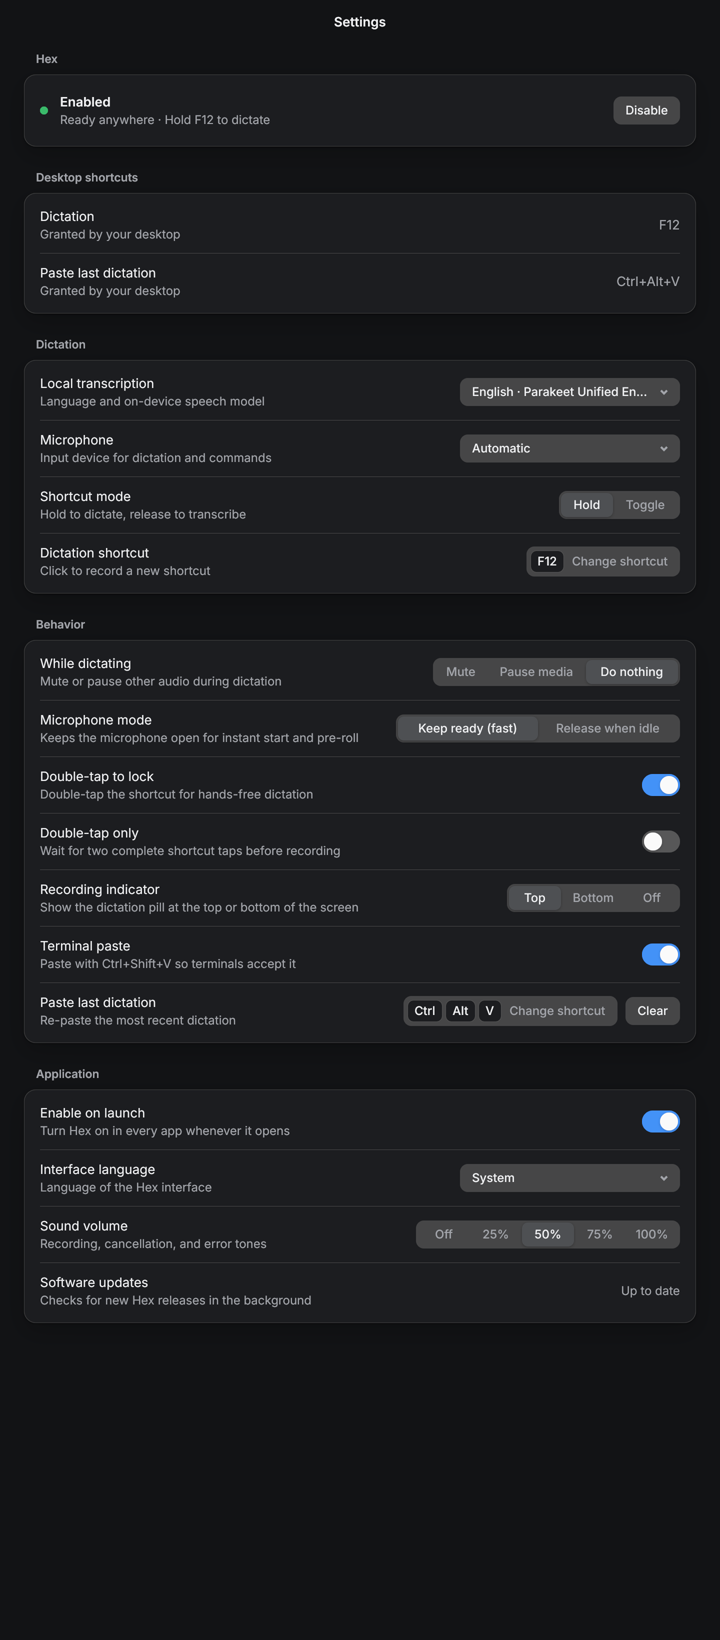
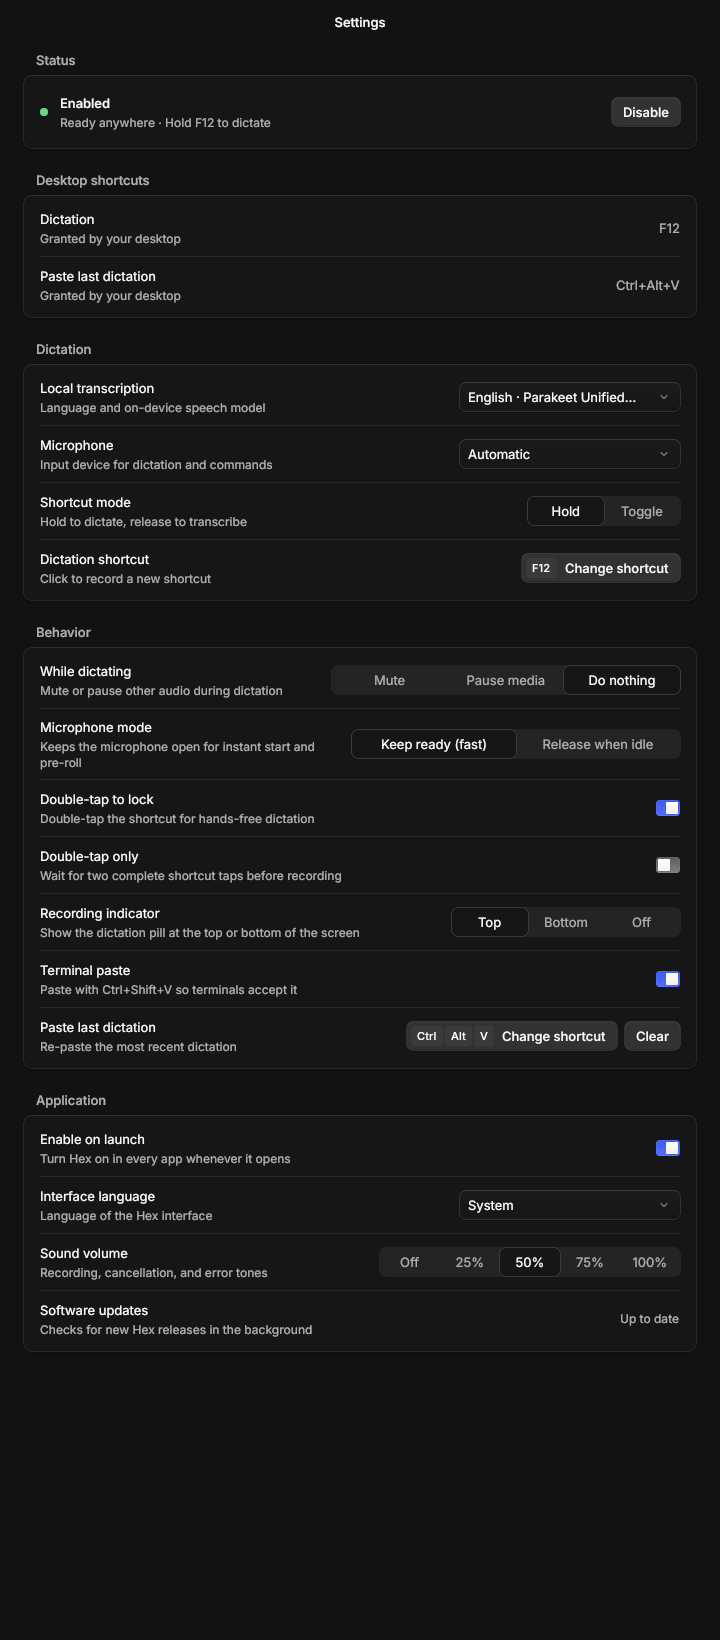
feat(linux): Rune Settings on rune-kit with OpenCode's theme
Re-skins the experimental Rune Settings pane with rune-kit's components and the
OpenCode theme (rune-theme-opencode) instead of Rune's neutral tokens: kit
switches, segmented controls, buttons and text field; model, microphone and
language choices as Select fields whose options open in an anchored Menu over
the page; raised cards; Inter and IBM Plex Mono. Behaviour, scenes and the
service contract are unchanged. Rune, rune-kit and rune-theme-opencode are
pinned to 1177fbd on Rune main (the hex-port branch is retired; its Linux
fixes are on main). Goldens and plan screenshots regenerated on apollo.

diff --git a/docs/plans/rune-ui.md b/docs/plans/rune-ui.md
@@ -2,9 +2,10 @@
 
 **Status:** Started, experimental, on the `rune-ui` branch only. The Linux
 Settings pane runs on Rune behind `--features rune-ui` and `hex app --ui rune`;
-GPUI stays the default everywhere. Rune is pinned to its `hex-port` branch
-(`anomalyco/rune`, private). Do not merge to `main` until the dependency
-questions under [Risks](#risks) are settled.
+GPUI stays the default everywhere. Rune, `rune-kit`, and
+`rune-theme-opencode` are pinned to a commit on Rune's `main`
+(`anomalyco/rune`, private; `1177fbd`). Do not merge to `main` until the
+dependency questions under [Risks](#risks) are settled.
 
 **Goal:** one Rune front end for Hex on macOS, Windows, and Linux, replacing
 about 29k lines of GPUI (`app_window.rs` and its OS modules, `desktop_ui.rs`,
@@ -14,42 +15,47 @@ about 29k lines of GPUI (`app_window.rs` and its OS modules, `desktop_ui.rs`,
 
 ## Design direction
 
-The Rune front end adopts **Rune's design language**, not Hex's current GPUI
-design system. Controls, colour (OKLCH `rune::tok::theme(dark)` with light and
-dark), spacing (`tok::space`), type (`tok::type_`, Inter), radii, and motion
-(`tok::motion`, analytic springs) come from Rune and the components Kit built in
-`examples/settings` and `examples/opencode`. Hex keeps its information,
-sections, copy, and behavior; only the look and layout follow Rune.
+The Rune front end uses **OpenCode's design language through Rune's component
+library**, not Hex's current GPUI design system. Controls come from `rune-kit`
+(generic components with `@opencode/ui`'s names: `Button`, `Switch`,
+`SegmentedControl`, `Select`, `Menu`, `TextInput`, …), and every colour,
+elevation, radius, type style, and motion token comes from the OpenCode theme
+(`rune_theme_opencode::kit(dark)`), which is `@opencode/ui`'s tokens as data.
+Theming stays a Rune feature: Hex could switch themes without touching a
+view. Hex keeps its information, sections, copy, and behavior; only the look
+and layout follow the kit.
 
 What that means for Hex's existing rules:
 
 - `docs/design-system.md` describes the GPUI front end and stays authoritative
   for it while GPUI ships. It does not govern `src/rune_settings*`. When Rune
-  becomes the default, replace it with a short Hex page that points at Rune's
-  theming system and lists only Hex-specific components (keycaps, shortcut
-  recorder, listener card) and copy rules, which still apply (sentence case,
-  "Hex", one accent action per screen, descriptions without full stops).
+  becomes the default, replace it with a short Hex page that points at
+  `rune-kit` and the OpenCode theme and lists only Hex-specific pieces
+  (keycaps, shortcut recorder, listener card) and copy rules, which still
+  apply (sentence case, "Hex", one accent action per screen, descriptions
+  without full stops).
 - The token lint (`design_tokens::tests::desktop_sources_use_tokens_instead_of_raw_styles`)
   matches GPUI calls (`rgb(0x…)`, `.text_size(`, `.rounded(px(`), so it neither
-  applies to nor flags Rune code. The Rune equivalent is: views name `tok`
-  values or a Hex `Paint`; raw `oklch(…)` appears only in the controls module
-  (today: the danger colour Rune's palette lacks). Add that as a lint over
+  applies to nor flags Rune code. The Rune equivalent: views name kit tokens
+  (`p.k.c.*`, `p.k.ty.*`, `p.k.radius.*`, `p.k.elevation.*`) or kit
+  components; the only raw style values are the row and keycap metrics in
+  `src/rune_settings/controls.rs`. Add that as a lint over
   `src/rune_settings/` once a second Rune screen exists, and delete the GPUI
   lint with the last GPUI pane.
 - Hex gains a light appearance for free (Rune follows the system), so every
   Rune screen gets light and dark goldens.
-- Rune's palette has no danger or success roles. Hex derives them in
-  `controls::Paint` (danger: OKLCH red at the accents' lightness; success:
-  Rune's green accent). Upstream them into `tok` rather than growing a Hex
-  palette.
+- Danger, success, and accent roles come from the theme's state colours
+  (`k.c.danger`, `k.c.success`, `k.c.text_accent`); Hex no longer derives any.
+- The one main action per screen uses the kit's contrast button (OpenCode's
+  primary look); everything else uses the neutral button.
 
 ## What this pass did
 
 ```text
 src/rune_settings.rs           state, service bridge, view, scenes   (~1.4k lines)
-src/rune_settings/controls.rs  Rune-style card, row, switch, segmented,
-                               disclosure + inline menu, button, keycaps,
-                               tag, note, text field                 (~460)
+src/rune_settings/controls.rs  settings rows, cards, select menus,
+                               segmented, buttons, keycaps, tag, note,
+                               text field on rune-kit                (~360)
 src/rune_settings/tests.rs     10 runtime tests + 4 GPU goldens      (~310)
 tests/golden/rune-settings-*.png
 ```
@@ -62,6 +68,20 @@ tests/golden/rune-settings-*.png
   service's copy changes, so a stale snapshot never reverts a fresh edit.
   `Client::with_waker` (new) wakes Rune's on-demand redraw loop when a snapshot
   arrives.
+- **Re-skinned on `rune-kit` and the OpenCode theme** (second pass): switches,
+  segmented controls, buttons, and the text field are kit components; the
+  model, microphone, and language choices are kit `Select` fields whose
+  options open in an anchored kit `Menu` above the page (outside presses
+  close it) instead of inline rows; cards use the kit's raised elevation;
+  Inter and IBM Plex Mono come from the theme crate. Behaviour, keys, scenes,
+  and the service contract are unchanged; the microphone-mode test taps
+  `microphone-mode-control/segment1` (the kit's segment key).
+  [light](rune-ui/hex-rune-portal-light.png),
+  [dark](rune-ui/hex-rune-portal-dark.png),
+  [menu open + confirmation](rune-ui/hex-rune-menus-light.png),
+  [commands](rune-ui/hex-rune-commands-dark.png),
+  [recording a shortcut](rune-ui/hex-rune-capturing-dark.png),
+  [disabled](rune-ui/hex-rune-disabled-light.png).
 - **Rows ported:** Status (listener state, hint, last failure, operation and
   connection errors, Enable/Disable), Desktop shortcuts (portal grants or the
   `hex` commands to bind), Local transcription (model menu for the current
@@ -80,7 +100,8 @@ tests/golden/rune-settings-*.png
   `--snap` shows real state and `--script` drives real edits without a window.
 - **Checks:** `cargo test --features rune-ui rune_settings` (10 headless
   runtime tests need no GPU; 4 goldens skip without an adapter;
-  `HEX_UPDATE_GOLDENS=1` rewrites them).
+  `HEX_UPDATE_GOLDENS=1` rewrites them). Goldens for the re-skin were written
+  on apollo (RADV).
 
 ### Observed on Linux (apollo: Arch, niri, AMD RADV, scale 2)
 
@@ -90,7 +111,7 @@ tests/golden/rune-settings-*.png
   [opencode](rune-ui/rune-example-opencode-session.png)). One real-window check
   of `examples/settings` on niri rendered correctly at scale 2
   ([crop](rune-ui/rune-example-window-niri.png)); the window had no `app_id`
-  (fixed on `hex-port`). No further windows were opened.
+  (fixed on Rune `main`). No further windows were opened.
 - Mesa lavapipe (software Vulkan on the agent host) renders `examples/settings`
   pixel-identically to RADV at the goldens' tolerance (0 of 1.29 M pixels over
   12/255), so the goldens can run in CI on lavapipe.
@@ -99,7 +120,10 @@ tests/golden/rune-settings-*.png
 - Hex's Rune Settings against the real `hex.service` on niri shows the portal's
   grants (F12, Ctrl+Alt+V) and the service's last error exactly as GPUI does
   ([live](rune-ui/hex-rune-live-real-service.png),
-  [GPUI reference](rune-ui/gpui-settings-linux.png)).
+  [GPUI reference](rune-ui/gpui-settings-linux.png)). These live captures and
+  the motion strip predate the kit re-skin (first pass, Rune's neutral look);
+  from an SSH session the service now reports that it belongs to another
+  desktop session, so they were not re-taken.
 - End to end against an isolated service (`HEX_APPLICATION_SUPPORT_DIR`, no
   display, listener off): a headless script toggled Terminal paste, While
   dictating, and Recording indicator; `settings.json` and the service's
@@ -117,7 +141,7 @@ shapes, keyboard focus and IME in the hints field, physical shortcut recording
 (F-keys, Super), wheel/trackpad scrolling feel, fractional scaling, and
 closing the window while the service keeps running.
 
-## Rune changes made (`hex-port` branch, commit `13d36b0`)
+## Rune changes made (now on Rune `main`)
 
 | Change | Why |
 | --- | --- |
@@ -125,9 +149,12 @@ closing the window while the service keeps running.
 | `Key::Function(1..=24)` mapped from winit | Hex records F-key shortcuts (apollo's dictation key is F12); Rune dropped them |
 | `Mods::logo` (Super/Windows) | Linux and Windows shortcuts use Super; Rune only reported Ctrl/Alt/Shift |
 | Script `key` events accept `F1`–`F24` and `"logo": true` | so headless scripts can drive the above |
+| `rune-kit` + `rune-theme-opencode` | the component library and OpenCode theme the re-skin uses |
+| CSS box shadows, gradients, outlines; `El::anchored` overlays that follow scrolled anchors | the kit's elevation tokens and Settings' menus over a scrolling page |
 
-Everything else was worked around in Hex (see the gaps below). An `AppSpec`
-field would be the cleaner final shape for the app id; a global setter avoided
+The Linux fixes landed on `main` as their own commit (`6d87e63`, cherry-picked
+from `hex-port` `13d36b0`); `hex-port` is no longer used. An `AppSpec` field
+would be the cleaner final shape for the app id; a global setter avoided
 breaking Kit's examples while `main` moves.
 
 ## Every GPUI surface and what it needs
@@ -167,8 +194,10 @@ Total for the panes, shell, and overlays after the core gaps close: roughly
 1. **Font fallback and system fonts** (blocker for zh, ja, and emoji). Parley
    and fontique support fallback; Rune pins one family per style.
 2. **Popover and modal layer**: anchored menus, dropdowns, context menus,
-   tooltips, sheets with a scrim, outside-click dismissal, and z-order above
-   later siblings. Hex shows choices inline in the card for now.
+   tooltips, outside-press dismissal, and z-order above later siblings now
+   exist (`El::anchored`, `rune_kit::root`); still missing: modal sheets with a
+   scrim that blocks the page, focus trapping, keyboard navigation in menus,
+   and closing an open menu when its anchor scrolls.
 3. **Timers and continuous animation**: `Tx::wake_after`, looping tracks for
    pulses and indeterminate progress. Hex relies on the service's 4 Hz
    snapshots to clear "Saved" and has no recording pulse.
@@ -177,7 +206,7 @@ Total for the panes, shell, and overlays after the core gaps close: roughly
 5. **Keyboard**: key-up and modifier-only events, left/right modifier sides,
    physical key codes (macOS keys shortcuts by layout keycode), Globe/Fn.
    Required for macOS modifier-only shortcuts; Linux needs only what
-   `hex-port` added.
+   the Linux fixes on Rune `main` added.
 6. **App and window model**: an app lifetime separate from windows, several
    windows, hide-on-close, close-request hooks, window kinds (non-activating
    panel, transparent click-through overlay, Wayland layer-shell), per-app
@@ -231,9 +260,11 @@ Total for the panes, shell, and overlays after the core gaps close: roughly
   the port stays on the branch.
 - **API churn.** Kit is changing Rune's `main` daily (layout measurement,
   growth, text flights landed during this pass). Pin a commit, keep Hex's Rune
-  code in `src/rune_settings*`, and rebase `hex-port` deliberately. Rune's
+  code in `src/rune_settings*`, and move the pinned commit deliberately. Rune's
   workspace also ships a vendored copy under `crates/rune-light/vendor/rune`,
-  which makes Cargo warn about a duplicate `rune` package.
+  which makes Cargo warn about a duplicate `rune` package. Hex now pins a
+  commit on `main` (not a branch) so Kit's daily changes land only when the
+  pin moves.
 - **Unproven platform shells.** Rune ran on Kit's Macs; this pass is its first
   Linux run and only one short window check. Windows is untested; macOS window
   kinds Hex needs do not exist yet.
